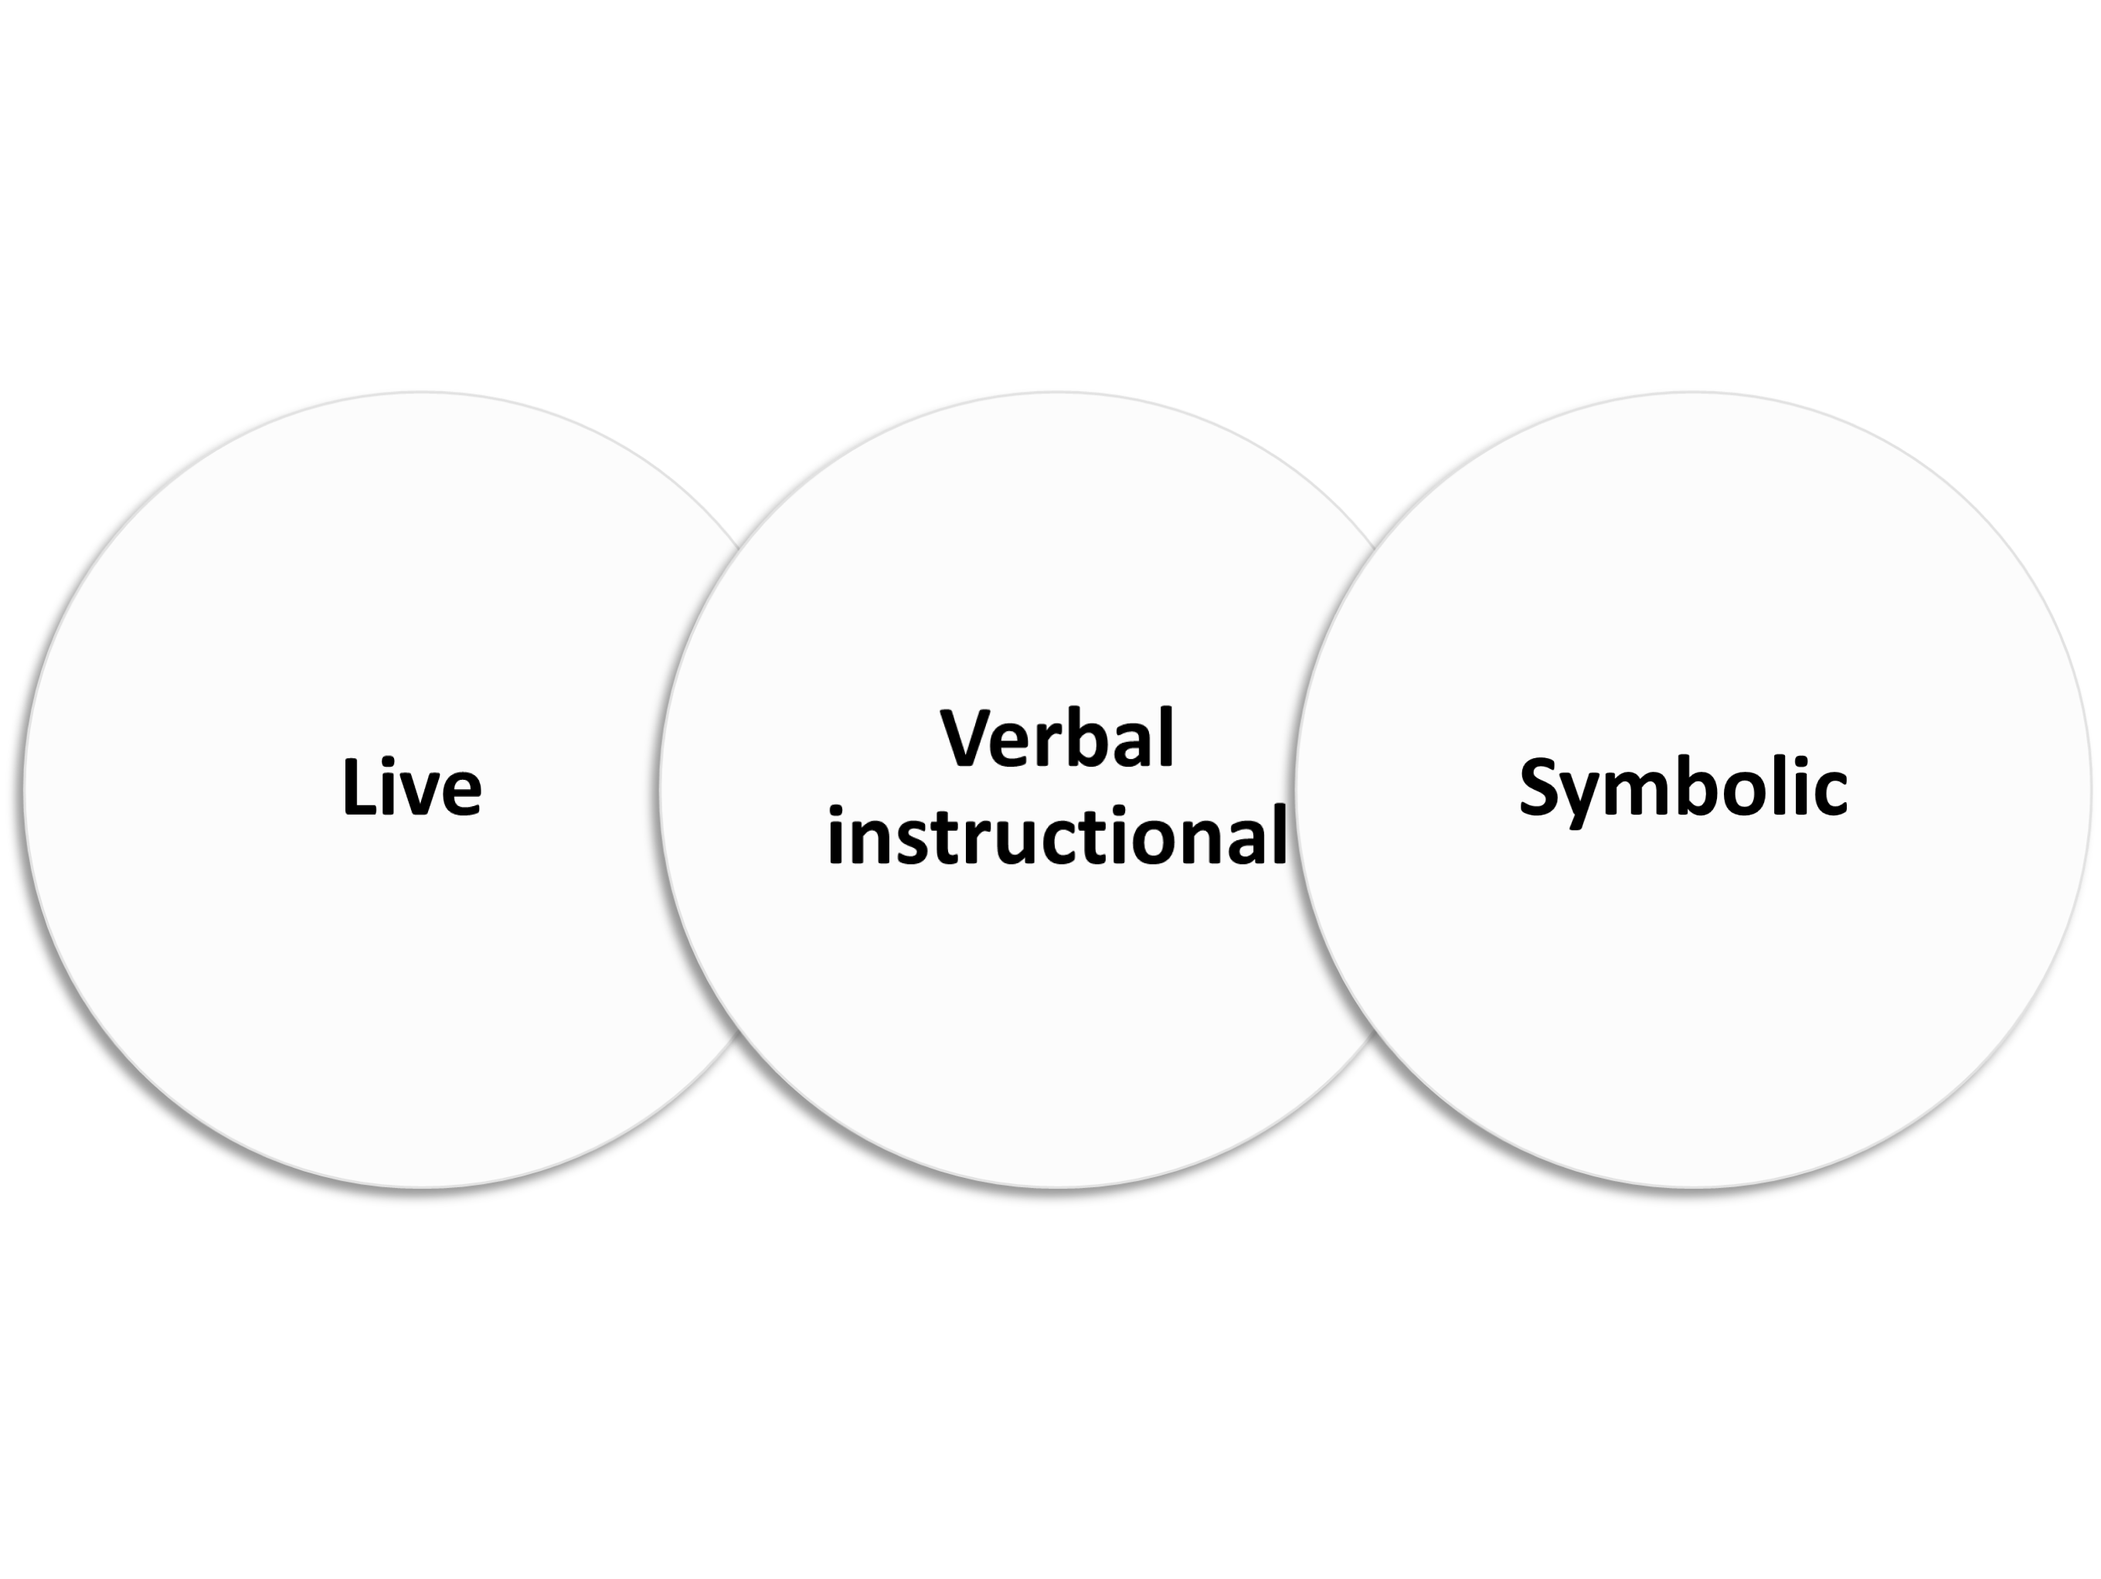
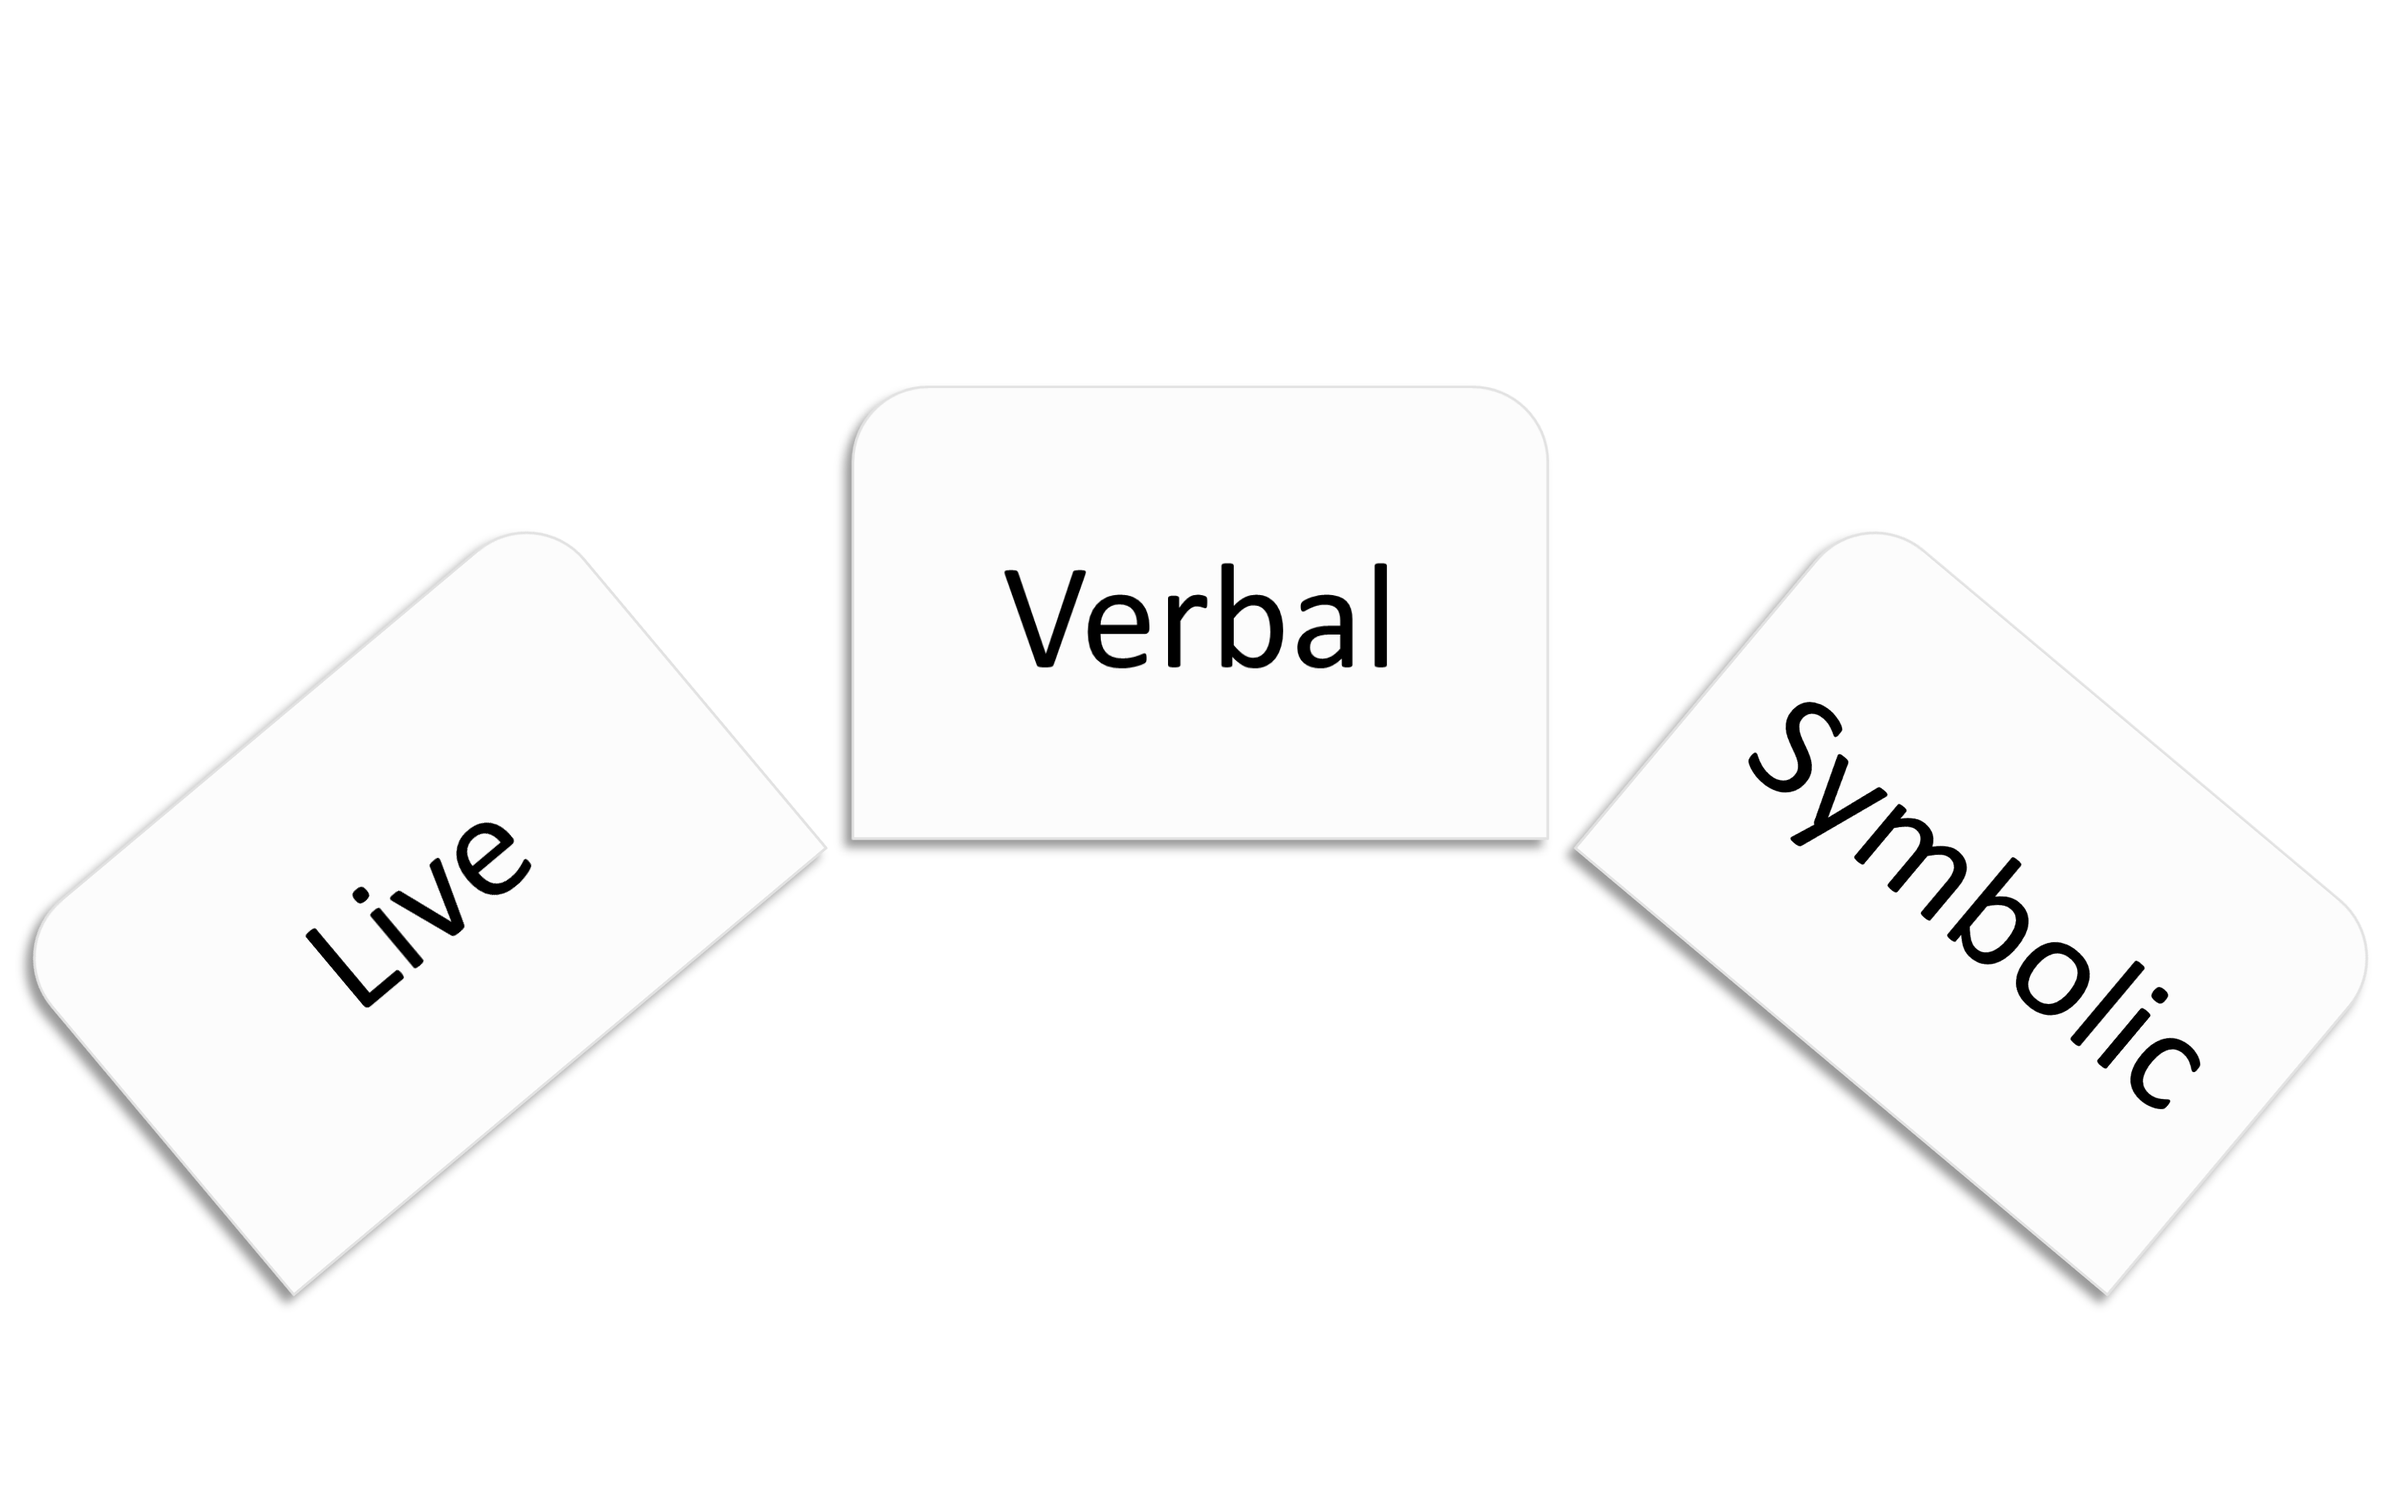
bcqs

diff --git a/docs/source/learn/BCQs.rst b/docs/source/learn/BCQs.rst
@@ -1,145 +1,117 @@
-=====================
-Best-Choice Questions
-=====================
+.. _theories-of-learning-bcqs:
+
+.. _
+
+==========================================
+Theories of Learning Best-Choice Questions
+==========================================
 
 
-.. card:: Q1
-    
-    In which type of learning does a neutral stimulus cause a response?
-    
-     a. Classical conditioning
-     b. Latent learning
-     c. Observational learning
-     d. Operant conditioning
-     e. Social learning
+The following are some free practice questions on this chapter. 
+For answers and explanations, google **Justpsychiatry Question Bank**.
 
-    .. dropdown::
+.. card:: BCQ
+
+    .. card:: Q1
+        
+        In which type of learning does a neutral stimulus cause a response?
+        
+        a. Classical conditioning
+        b. Latent learning
+        c. Observational learning
+        d. Operant conditioning
+        e. Social learning
+
+        .. dropdown:: Explanation
+            
         An unconditioned stimulus causes an unconditioned response. According to
         the principles of classical conditioning, if we pair another
         stimulus---the neutral stimulus---with the unconditioned stimulus for a
         long time, the neutral stimulus would evoke a conditioned response. The
         best answer would be classical conditioning. (McSweeney & Murphy, 2014)
 
-1.  Keeping the principles of conditioning theories in mind, which one
-    of the following is a stimulus that does not initially cause a
-    response?
+.. card:: BCQ
 
-        Neutral stimulus
-        Primary reinforcer
-        Prompt
-        Secondary reinforcer
-        Unconditioned stimulus
+    .. card:: Q2
+    
+     Keeping the principles of conditioning theories in mind, which one
+     of the following is a stimulus that does not initially cause a
+     response?
+
+     a. Neutral stimulus
+     b. Primary reinforcer
+     c. Prompt
+     d. Secondary reinforcer
+     e. Unconditioned stimulus
    
    .. dropdown::
+       
         A neutral stimulus is a stimulus that does not initially cause a
         response. An unconditioned stimulus reflexively triggers a response.
 
-2.  Considering the principles of conditioning theories, which one
+.. card:: Q3
+    
+    Considering the principles of conditioning theories, which one
     refers to a situation or event that reflexively and automatically
     triggers a response?
 
-An unconditioned response is an automatic reaction to the unconditioned
-stimulus, a situation or event that reflexively and automatically
-triggers a response. A neutral stimulus does not initially cause a
-response.
+       a. Motor reflex
+       b. Neutral stimulus
+       c. Primary reinforcer
+       d. Unconditioned reaction
+       e. Unconditioned stimulus
 
-Motor reflex
-
-Neutral stimulus
-
-Primary reinforcer
-
-Unconditioned reaction
-
-\*Unconditioned stimulus
-
-Learning theories
-
-4.  A therapist is helping a patient learn social skills. One skill the
+1.  A therapist is helping a patient learn social skills. One skill the
     therapist wants him to develop is a social smile. He gave him an
     exercise to smile every time he greets someone, with the underlying
     intention to make him likeable and pleasant. If he does this as
     advised, what would be the reinforcement schedule for his social
     contacts?
 
-The interval between meeting people is variable.
+     The interval between meeting people is variable.
 
-Continuous
+        Continuous
+        Fixed-Interval
+        Fixed Ratio
+        Variable-Interval
+        Variable-Ratio
 
-Fixed-Interval
-
-Fixed Ratio
-
-\*Variable-Interval
-
-Variable-Ratio
-
-Learning theories
-
-5.  According to the psychologist who conducted the Bobo doll
+2. According to the psychologist who conducted the Bobo doll
     experiment, young children can learn by watching other children. Who
     founded this type of learning?
 
-The Bobo doll experiments were a series of experiments performed by
-psychologist Albert Bandura between 1961 and 1963 to test his social
-learning theory. His most remarkable experiment evaluated children's
-behaviour after they observed an adult model physically abusing the Bobo
-doll and then experiencing a reward, punishment, or no consequence at
-all.
+    The Bobo doll experiments were a series of experiments performed by
+    psychologist Albert Bandura between 1961 and 1963 to test his social
+    learning theory. His most remarkable experiment evaluated children's
+    behaviour after they observed an adult model physically abusing the Bobo
+    doll and then experiencing a reward, punishment, or no consequence at
+    all.
 
-\*Albert Bandura
+    #. Albert Bandura
+    #. BF Skinner
+    #. Edward Thorndike
+    #. John Watson
+    #. Pavlov
 
-BF Skinner
-
-Edward Thorndike
-
-John Watson
-
-Pavlov
-
-Learning theories
-
-6.  According to the theory of social learning, which one refers to a
+3.  According to the theory of social learning, which one refers to a
     person who can influence people with positive or negative behaviour?
 
-Bandura's theory states that people learn via observation, imitation,
-and modelling. Thus, our role model concept is born. The more learners
-collaborate with these role models, the more they imitate their good
-behaviours.
+    #. Antisocial Model
+    #. Leader
+    #. Modeller
+    #. Prosocial Model
+    #. Role Model
 
-Antisocial Model
-
-Leader
-
-Modeller
-
-Prosocial Model
-
-\*Role Model
-
-Learning theories
-
-1.  In which one of the following does trial and error learning lead to
+4.  In which one of the following does trial and error learning lead to
     an association of stimuli and responses?
 
-In operant conditioning, which we also know as instrumental
-conditioning, trial and error cause the association of stimuli and
-response, and the behaviours help achieve a goal. The best answer would
-be operant conditioning.
+    #. Classical conditioning
+    #. Latent learning
+    #. Observational learning
+    #. Operant conditioning
+    #. The law of effect
 
-Classical conditioning
-
-Latent learning
-
-Observational learning
-
-\*Operant conditioning
-
-The law of effect
-
-Learning theories
-
-7.  Any response followed by a satisfying situation is likely to be
+5.  Any response followed by a satisfying situation is likely to be
     repeated, while behaviours resulting in an annoying situation are
     less likely to occur. Which one of the following does it describe?
 

diff --git a/docs/source/learn/04-observational-learning.rst b/docs/source/learn/04-observational-learning.rst
@@ -99,11 +99,6 @@ Bandura identified three kinds of models: live, verbal, and symbolic.
 2. A **verbal instructional model** does not perform the behaviour, but instead explains or describes the behaviour, as when a soccer coach tells his young players to kick the ball with the side of the foot, not with the toe. 
 3. A **symbolic model** can be fictional characters or real people who demonstrate behaviors in books, movies, television shows, video games, or Internet sources (`[link] <#Figure06_04_Yoga>`__).
 
-.. figure:: ../resources/CNX_Psych_06_04_Models.png
-   :scale: 50 %
-   :alt: A figure that shows different types of models. 
-  
-   Three types of Models according to Bandura. 
 
 .. figure:: ../resources/CNX_Psych_06_04_Yoga.jpg
    :scale: 100 %
@@ -158,7 +153,12 @@ depends on what happened to the model. If you saw that the model was
 reinforced for her behaviour, you will be more motivated to copy her.
 This is known as :term:`vicarious reinforcement`. 
 
+.. admonition:: Clinical Correlate: Application of vicarious reinforcement
+   :class: hint
 
+   Vicarious reinforcement may be employed in behaviour therapies for children. 
+   A sibling can be rewarded for a desirable behaviour while the child under treatment is 
+   observing.  The reward must be appropriate, eg, praise, and not likely to trigger a tantrum. 
 
 Vicarious punishment
 --------------------
@@ -198,7 +198,7 @@ doll.
    with Albert Bandura.
 
 Implications
-============
+------------
 
 What are the implications of this study? Bandura concluded that we watch
 and learn, and that this learning can have both :term:`prosocial`
@@ -276,12 +276,14 @@ While researchers are working to understand this dilemma, the more serious
 concern with video games is addiction. Based on evidence, addiction to games is now recognised by the
 World Health Organization as clinical condition; it is classified under impulse-control disorders in the ICD-11.
 
-.. figure:: ../resources/CNX_Psych_06_04_Videogames.jpg
+.. figure:: ../resources/CNX_Psych_06_04_MediaViolence.png
    :scale: 100 %
-   :alt: A photograph shows two children playing a video game and pointing a gun-like object toward a screen
+   :alt: An illustration shows the relationship between exposure to media violence and aggressive behaviour. 
 
-   A photograph shows two children playing a video game and pointing a
-   gun-like object toward a screen
+   Exposure to media violence might contribute to increased aggression, yet it could be the
+   individual's tendency towards aggression that they have a greater exposure to media violence. 
+   A genetic predisposition to aggressive behaviour might be the denominator predisposing the individuals
+   to both aggressive behaviour and a liking for games and movies involving aggression.   
 
 .. seealso::
 
@@ -384,6 +386,25 @@ Critical Thinking Questions
       Cara is more likely to drink at the party because she has observed
       her parents drinking regularly. Children tend to follow what a
       parent does rather than what they say.
+
+.. card::
+
+   .. card::
+
+      After an incident of violence in the city, a TV channel contacted you to 
+      record your views on the causes of aggression. What may be the effect 
+      of watching aggression on the viewer's behaviour?
+
+   .. dropdown::
+
+      This is a circular argument. There is evidence for the association of greater 
+      exposure to media violence and increased aggression, but the whether the elevated risk of aggression
+      and violence is due to the increased exposure to aggression through media is controversial. 
+      It is possible that 
+      exposure to violence through media and aggressive behaviour are both caused by a common 
+      denominator such as genetic predisposition. 
+
+      
 
 Personal Application Questions
 ==============================

diff --git a/docs/source/index.rst b/docs/source/index.rst
@@ -2,12 +2,11 @@ Clinically Oriented Psychology
 ##############################
 
 .. admonition:: About Clinically Oriented Psychology
-       
-       We intend to adapt OpenStax Psychology and make it clinically relevant. 
-       
-       The textbook will contain more clinical scenarios and applications, psychological basis of psychiatric disorders, therapies, clinical scales and psychotherapeutic techniques will be the focus of our book. 
-       
-       We Welcome conributors.
+   :class: note
+   
+   We intend to adapt OpenStax Psychology and make it clinically relevant.
+   The textbook will contain more clinical scenarios and applications, psychological basis of psychiatric disorders, therapies, clinical scales and psychotherapeutic techniques will be the focus of our book. 
+   We Welcome conributors.
 
 
 .. toctree::

diff --git a/docs/source/learn/02-classical-conditioning.rst b/docs/source/learn/02-classical-conditioning.rst
@@ -125,8 +125,8 @@ with being fed, and they began to salivate (CR) in anticipation of food.
    rung.
 
 
-Real World Application Of Classical Conditioning
-------------------------------------------------
+Applications of Classical Conditioning
+---------------------------------------
 
 How does classical conditioning work in the real world? Let’s say you
 have a cat named Tiger, who is quite spoiled. You keep her food in a
@@ -773,6 +773,11 @@ explain how some fears develop.
     .. dropdown:: Check Answer
 
        B
+
+.. admonition:: Practice Questions
+   :class: important
+
+   More practice questions are given at the end of this Chapter. See ::ref:`BCQs` 
 
 Critical Thinking Questions
 ===========================

diff --git a/docs/source/therapy/index.rst b/docs/source/therapy/index.rst
@@ -7,5 +7,5 @@ Chapter 16: Therapy and Treatment
    :glob:
    :maxdepth: 2
    
-    m*
+   m*
    ...
